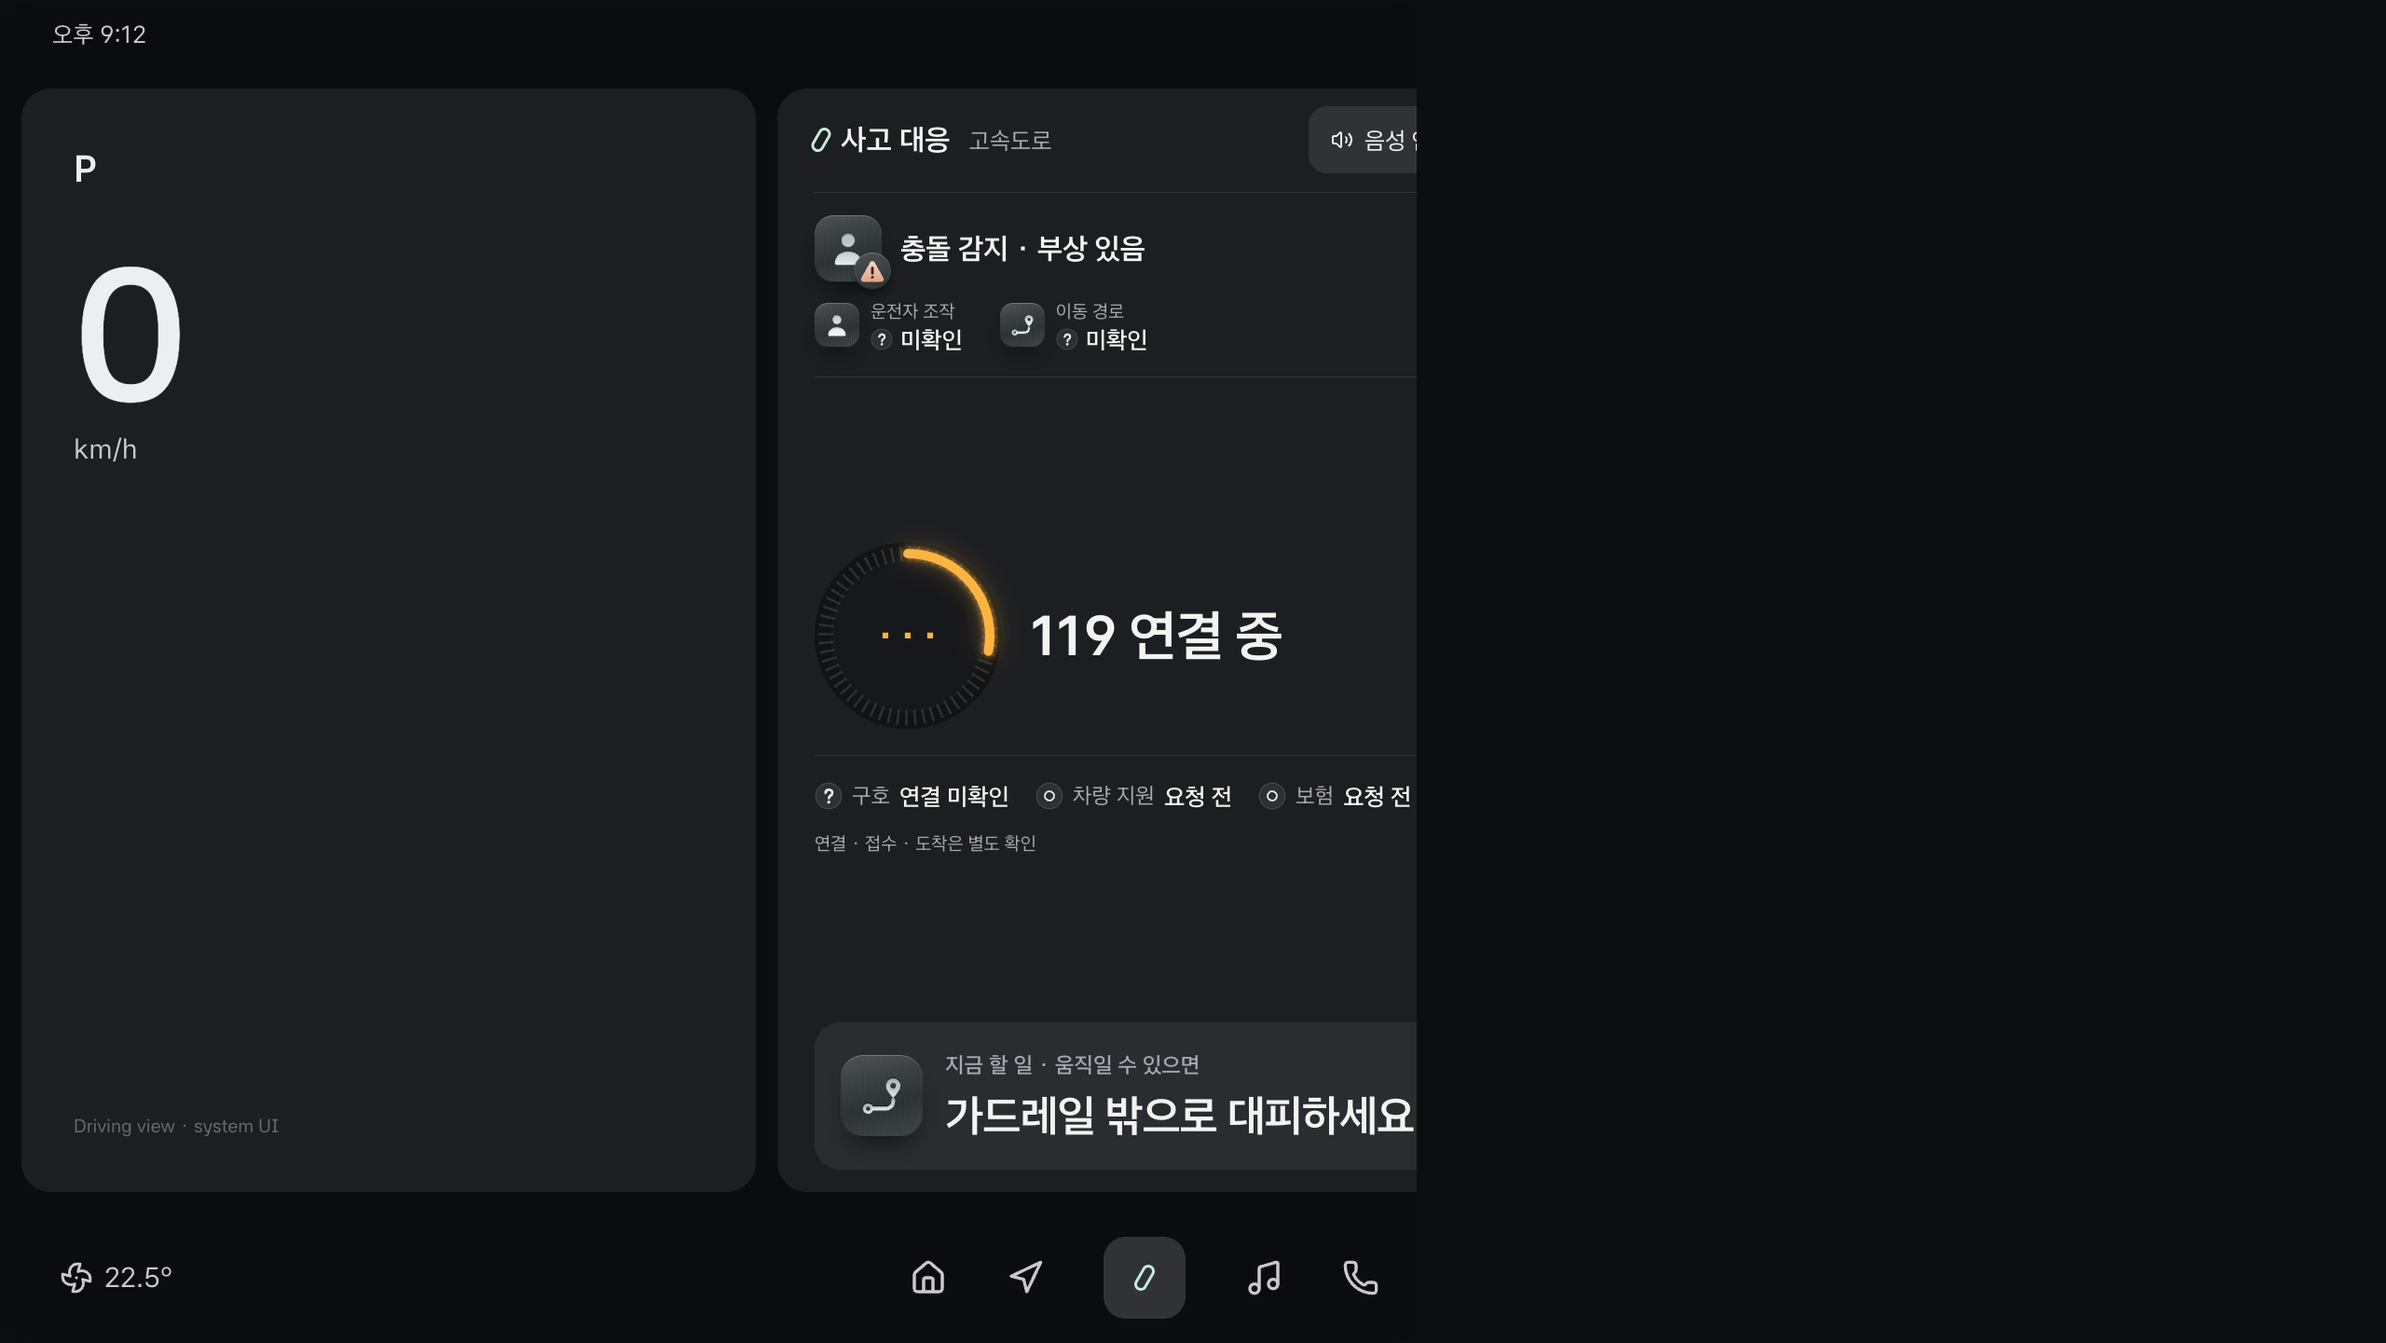
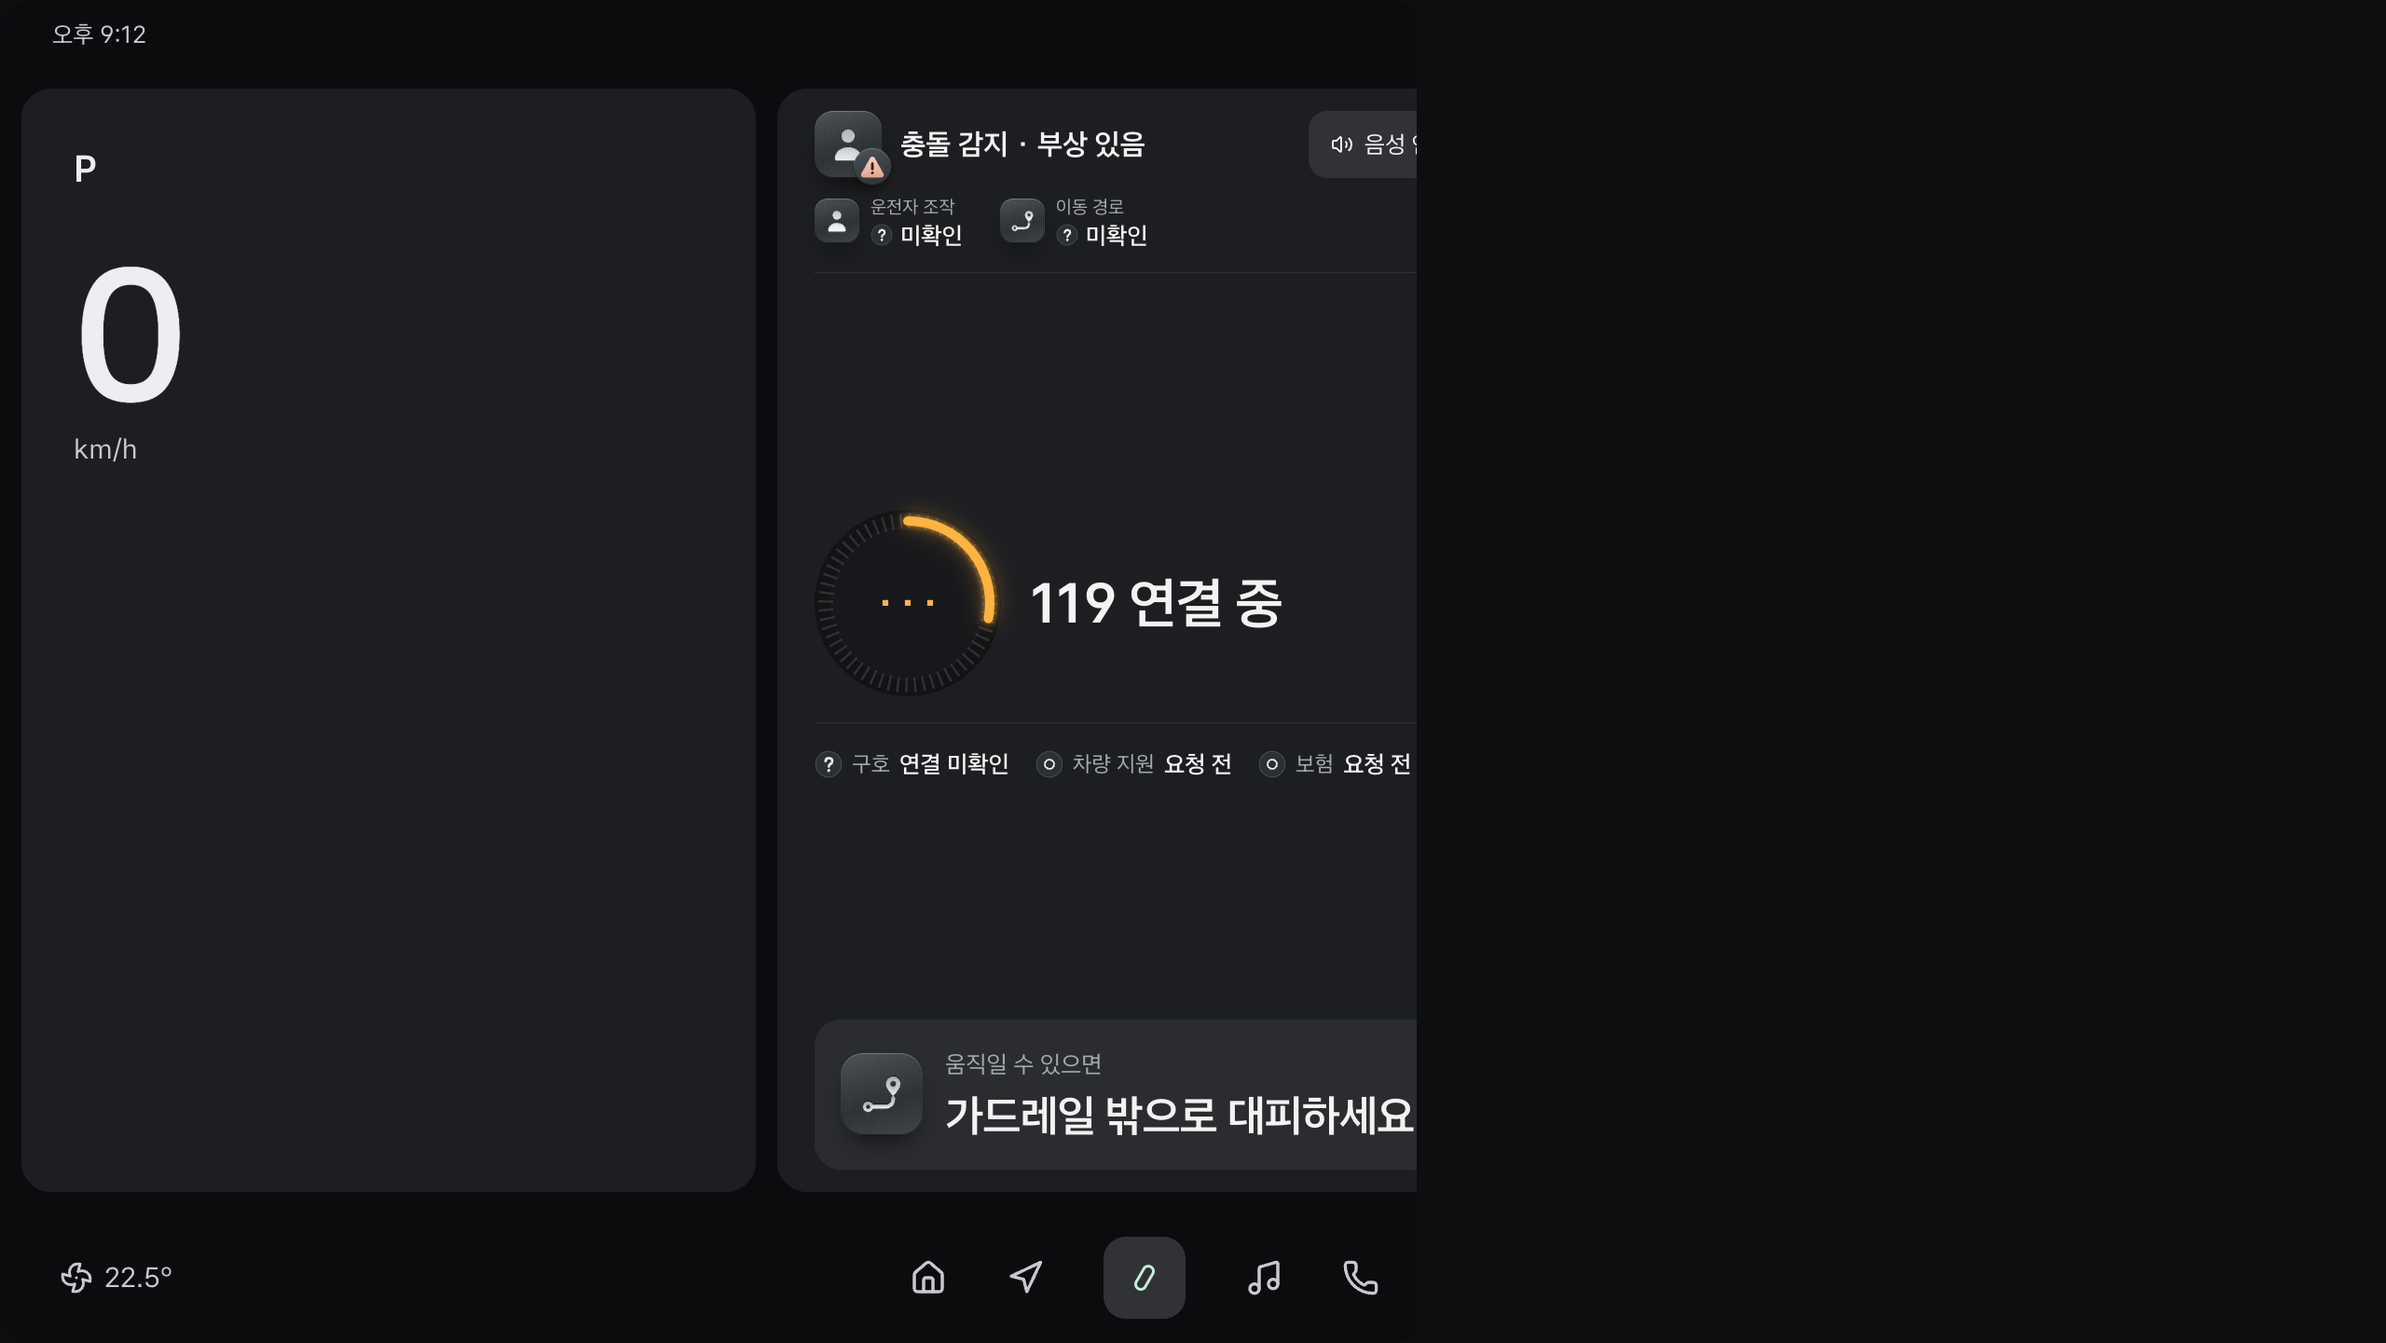
feat(web): remove meta text from the emergency app window
The app name, logo and place tag in the header, the "지금 할 일" lead
on the self card, the "연결 · 접수 · 도착은 별도 확인" footnote and the
captions on the driving view and navigation windows all described the
UI or our design rules instead of telling the driver anything. The
voice button moves to the right end of the detected line, and a self
action condition is shown as a small line above the sentence.

presentation.context_label stays in the data because the Android
preview reads it.

Also make two flaky tests deterministic: the scaled-canvas test now
measures the plate and glyph in the same frame, and the stale timer
test starts with a paused clock so load cannot run the countdown out
before the click.

diff --git a/prototype/web/src/emergency/emergency.css b/prototype/web/src/emergency/emergency.css
@@ -33,10 +33,8 @@
 .pleos-gear { font-size: 40px; font-weight: 700; color: #EDEEF2; }
 .pleos-speed { margin-top: 48px; display: flex; flex-direction: column; font-size: 30px; }
 .pleos-speed strong { font-size: 200px; line-height: 1; font-weight: 600; color: #EDEEF2; }
-.pleos-caption { margin: auto 0 0; font-size: 20px; color: #686A72; }
 .pleos-navigation { left: 1697px; width: 840px; background: #16181B; }
 .pleos-navigation svg { display: block; }
-.pleos-navigation .pleos-caption { position: absolute; left: 40px; bottom: 32px; }
 .pleos-gnb { position: absolute; inset: auto 0 0; height: 140px; display: flex; align-items: center; justify-content: space-between; padding: 0 64px; font-size: 30px; }
 .pleos-gnb > span { display: flex; align-items: center; gap: 12px; }
 .pleos-gnb nav { display: flex; align-items: center; gap: 64px; }
@@ -45,16 +43,12 @@
 
 /* 사고 대응 app 창. 글자는 Pleos type scale(Headline 60·48, Title 40·36·32, Body 30·28·26, Label 24·20)만 쓴다. */
 .emergency-screen { --urgent: #FF4C28; --progress: #FFB340; --pleos-line: #313236; --pleos-subtle: #A4A8AE; position: absolute; left: 834px; top: 94px; width: 840px; height: 1184px; display: flex; flex-direction: column; padding: 0 40px 24px; background: #1D1E21; color: var(--foreground); border-radius: 32px; overflow: hidden; }
-.emergency-app-header { flex: none; height: 112px; display: flex; align-items: center; gap: 20px; border-bottom: 1px solid var(--pleos-line); }
-.emergency-app-name { font-size: 32px; font-weight: 700; display: flex; align-items: center; gap: 14px; }
-.emergency-app-name > span { width: 14px; height: 28px; border: 3px solid var(--primary); border-radius: 8px; transform: rotate(30deg); }
-.emergency-context-label { font-size: 26px; color: var(--pleos-subtle); }
-.emergency-voice-button { margin-left: auto; display: flex; align-items: center; gap: 12px; color: var(--foreground); background: var(--pleos-line); border: 0; border-radius: 20px; min-height: 72px; padding: 0 24px; font-size: 26px; }
+.emergency-voice-button { grid-column: 3; display: flex; align-items: center; gap: 12px; color: var(--foreground); background: var(--pleos-line); border: 0; border-radius: 20px; min-height: 72px; padding: 0 24px; font-size: 26px; }
 .emergency-voice-button:hover { background: #44464E; }
 .emergency-slot { display: flex; flex-direction: column; gap: 20px; padding: 28px 0; }
-/* 칸에는 이름표를 달지 않는다. ① 은 작은 상황 줄, ② 는 가운데 큰 영역, ③ 은 따로 띄운 "지금 할 일" card 다. */
+/* 화면을 설명하는 글(칸 이름표·말머리·app 이름)은 두지 않는다. ① 은 작은 상황 줄, ② 는 가운데 큰 영역, ③ 은 따로 띄운 card 다. */
 .emergency-car { border-top: 1px solid var(--pleos-line); }
-.emergency-detected { display: grid; grid-template-columns: 72px minmax(0, 1fr); align-items: center; gap: 16px 20px; padding: 24px 0; }
+.emergency-detected { display: grid; grid-template-columns: 72px minmax(0, 1fr) auto; align-items: center; gap: 16px 20px; padding: 24px 0; }
 .emergency-facts { grid-column: 1 / -1; }
 .emergency-detected h2 { margin: 0; font-size: 32px; font-weight: 700; line-height: 1.25; letter-spacing: -.01em; }
 .metal-plate { background: var(--metal-plate); box-shadow: inset 0 1px 0 rgba(255,255,255,.24), inset 0 -1px 0 rgba(0,0,0,.55), 0 14px 28px -12px rgba(0,0,0,.75); }
@@ -92,11 +86,10 @@
 .emergency-request { display: flex; align-items: center; gap: 10px; }
 .emergency-request-name { font-size: 24px; color: var(--pleos-subtle); }
 .emergency-request strong { font-size: 26px; font-weight: 600; }
-.emergency-status-boundary { flex-basis: 100%; font-size: 20px; color: var(--pleos-subtle); }
 .emergency-self { flex: none; flex-direction: row; align-items: center; gap: 24px; padding: 28px; border-radius: 28px; background: #2A2C30; }
 .emergency-self-plate { flex: none; display: grid; place-items: center; width: 88px; height: 88px; border-radius: 24px; }
 .emergency-self-copy { display: flex; flex-direction: column; align-items: flex-start; gap: 8px; min-width: 0; }
-.emergency-self-lead { margin: 0; font-size: 24px; font-weight: 600; color: var(--pleos-subtle); }
+.emergency-self-condition { margin: 0; font-size: 26px; color: var(--pleos-subtle); }
 .emergency-self-action { display: flex; align-items: baseline; flex-wrap: wrap; gap: 4px 16px; margin: 0; }
 .emergency-self-action > strong { font-size: 48px; font-weight: 800; line-height: 1.2; letter-spacing: -.02em; }
 .emergency-self-action > span { font-size: 30px; color: var(--pleos-subtle); }

diff --git a/prototype/web/src/emergency/EmergencyStudy.tsx b/prototype/web/src/emergency/EmergencyStudy.tsx
@@ -210,10 +210,10 @@ export function EmergencyStudy() {
         <section className={`emergency-screen${satin ? ' is-satin' : ''}`} data-surface-status={satin ? surfaceStatus : 'flat'} aria-label="시각 중심 사고 대응" inert={paused} style={{ '--metal-plate': metalPlate } as CSSProperties}>
           <GlyphDefs />
           {satin && <SatinSurface intensity={surfaceIntensity} onStatus={setSurfaceStatus} />}
-          <header className="emergency-app-header"><span className="emergency-app-name"><span aria-hidden="true" />사고 대응</span><span className="emergency-context-label">{scenario.presentation.context_label}</span><button onClick={playVoice} className="emergency-voice-button">{voiceState === 'speaking' ? <VolumeX size={24} aria-hidden="true" /> : <Volume2 size={24} aria-hidden="true" />}{voiceState === 'speaking' ? '음성 안내 중지' : '음성 안내 듣기'}</button></header>
           <section className="emergency-slot emergency-detected" data-slot="detected" aria-label="핵심 상황">
             <div className="emergency-symbol metal-plate" aria-hidden="true"><Glyph name={glyphFor.cue(scene.cue.symbol)} depth="deep" size={48} /><span className="emergency-symbol-state"><StatusMark tone={scene.cue.status} size={28} /></span></div>
             <h2 className={`tone-${scene.cue.status}`}>{scenario.presentation.detected} · {scene.cue.label}</h2>
+            <button onClick={playVoice} className="emergency-voice-button">{voiceState === 'speaking' ? <VolumeX size={24} aria-hidden="true" /> : <Volume2 size={24} aria-hidden="true" />}{voiceState === 'speaking' ? '음성 안내 중지' : '음성 안내 듣기'}</button>
             <div className="emergency-facts">{facts.filter(fact => scenario.presentation.visible_facts.includes(fact.id)).map(fact => <div key={fact.id} className={`emergency-fact tone-${fact.status}`} data-fact={fact.id}><span className="emergency-fact-plate metal-plate"><Glyph name={glyphFor.fact(fact.id)} depth="shallow" size={32} /></span><span>{fact.label}</span><strong><StatusMark tone={fact.status} size={24} />{fact.value}</strong></div>)}</div>
           </section>
           <section className="emergency-slot emergency-car" data-slot="car" aria-label="차량이 할 일">
@@ -232,12 +232,12 @@ export function EmergencyStudy() {
             <div className="emergency-requests" aria-label="기관별 요청 상태">{requests.map(request => {
               const status = requestStatuses[request.status]
               return <div key={request.id} className={`emergency-request tone-${status.tone}`} data-request={request.id}><StatusMark tone={status.tone} size={30} /><span className="emergency-request-name">{request.label}</span><strong>{status.label}</strong></div>
-            })}<span className="emergency-status-boundary">연결 · 접수 · 도착은 별도 확인</span></div>
+            })}</div>
           </section>
           <section className="emergency-slot emergency-self" data-slot="self" aria-label="지금 할 일">
             {scene.self_action && <span className="emergency-self-plate metal-plate" aria-hidden="true"><Glyph name={glyphFor.self(scene.self_action.id)} depth="deep" size={56} /></span>}
             <div className="emergency-self-copy">
-              <p className="emergency-self-lead">지금 할 일{scene.self_action?.condition && ` · ${scene.self_action.condition}`}</p>
+              {scene.self_action?.condition && <p className="emergency-self-condition">{scene.self_action.condition}</p>}
               {scene.actions.filter(action => action.slot === 'self').map(action => <button className="emergency-primary-action is-self" key={action.id} onClick={() => goToScene(action.to, 'action')}><Glyph name={glyphFor.action(action.id)} depth="solid" size={36} /><span>{action.label}</span></button>)}
               {scene.self_action && <p className="emergency-self-action"><strong>{scene.self_action.now}</strong>{scene.self_action.next && <span>→ {scene.self_action.next}</span>}</p>}
             </div>

diff --git a/prototype/web/tests/emergency-urgent.spec.ts b/prototype/web/tests/emergency-urgent.spec.ts
@@ -92,12 +92,17 @@ test('only_the_rescue_ring_glows', async ({ page }) => {
   expect(glowing).toEqual([])
 })
 
-test('slots_carry_no_name_tags', async ({ page }) => {
+// 화면을 설명하는 글(칸 이름표·말머리·설계 주석·app 이름·창 설명)은 운전자에게 주는 정보가 아니다.
+const TAGS = ['감지', '차량', '나']
+const META = ['지금 할 일', '사고 대응', '별도 확인', 'system UI', '다른 app']
+test('screen_has_no_meta_labels', async ({ page }) => {
   for (const { scenario, scene } of scenes) {
     await page.goto(`/?study=emergency&scenario=${scenario.id}&scene=${scene.id}`)
     await expect(page.locator('[data-slot="car"]')).toBeVisible()
-    const tags = await page.locator('.emergency-screen').evaluate(root => [...root.querySelectorAll('*')].map(node => node.childNodes.length === 1 ? node.textContent!.trim() : '').filter(text => ['감지', '차량', '나'].includes(text)))
-    expect(tags, `${scenario.id}/${scene.id}`).toEqual([])
+    const found = await page.locator('.pleos-display').evaluate((root, { tags, meta }) => [...root.querySelectorAll('*')]
+      .map(node => [...node.childNodes].filter(child => child.nodeType === Node.TEXT_NODE).map(child => child.textContent!.trim()).join(' ').trim())
+      .filter(text => tags.includes(text) || meta.some(word => text.includes(word))), { tags: TAGS, meta: META })
+    expect(found, `${scenario.id}/${scene.id}`).toEqual([])
   }
 })
 
@@ -107,8 +112,8 @@ test('self_card_says_now_with_the_action_glyph', async ({ page }) => {
     await page.goto(`/?study=emergency&scenario=${scenario.id}&scene=${scene.id}`)
     const card = page.locator('[data-slot="self"]')
     const where = `${scenario.id}/${scene.id}`
-    await expect(card, where).toContainText('지금 할 일')
     await expect(card, where).toContainText(scene.self_action.now)
+    if (scene.self_action.condition) await expect(card, where).toContainText(scene.self_action.condition)
     await expect(card.locator(`[data-glyph="${(book.self as Record<string, string>)[scene.self_action.id]}"]`), where).toHaveCount(1)
   }
 })
@@ -196,7 +201,11 @@ test.describe('rescue countdown', () => {
   })
 
   test('stale_timer_does_not_fire_after_scene_change', async ({ page }) => {
-    const screen = await open(page)
+    // 설치한 clock 은 실제 시간으로도 흐른다. 0.5초 여유는 부하가 걸리면 click 전에 사라지므로 page 를 열기 전에 clock 을 멈춘다.
+    await page.clock.install({ time: 0 })
+    await page.clock.pauseAt(1_000)
+    await page.goto('/?study=emergency&scenario=SC03&scene=initial')
+    const screen = page.getByRole('region', { name: '시각 중심 사고 대응' })
     await page.clock.runFor(9_500)
     await screen.getByRole('button', { name: '지금 연결', exact: true }).click()
     await page.clock.runFor(2_000)

diff --git a/prototype/web/tests/emergency-glyphs.spec.ts b/prototype/web/tests/emergency-glyphs.spec.ts
@@ -45,13 +45,12 @@ test('scaled_canvas_keeps_glyph_inside_plate', async ({ page }) => {
   await page.goto('/?study=emergency&scenario=SC05')
   // 축소 배율은 ResizeObserver 뒤에 정해진다. 배율이 정해지기 전에 재면 box 가 서로 어긋난다.
   await expect.poll(async () => (await page.locator('.emergency-screen').boundingBox())?.width ?? Infinity).toBeLessThanOrEqual(375)
-  const plate = await page.locator('.emergency-symbol').boundingBox()
-  const glyph = await page.locator('.emergency-symbol > [data-glyph]').boundingBox()
-  expect(plate && glyph).toBeTruthy()
-  expect(glyph!.x).toBeGreaterThanOrEqual(plate!.x)
-  expect(glyph!.y).toBeGreaterThanOrEqual(plate!.y)
-  expect(glyph!.x + glyph!.width).toBeLessThanOrEqual(plate!.x + plate!.width)
-  expect(glyph!.y + glyph!.height).toBeLessThanOrEqual(plate!.y + plate!.height)
+  // 두 box 를 따로 재면 그 사이에 배율이 바뀔 수 있다. 같은 frame 에서 잰다.
+  const [plate, glyph] = await page.locator('.emergency-symbol').evaluate(node => [node, node.querySelector(':scope > [data-glyph]')!].map(item => item.getBoundingClientRect().toJSON()))
+  expect(glyph.x).toBeGreaterThanOrEqual(plate.x)
+  expect(glyph.y).toBeGreaterThanOrEqual(plate.y)
+  expect(glyph.x + glyph.width).toBeLessThanOrEqual(plate.x + plate.width)
+  expect(glyph.y + glyph.height).toBeLessThanOrEqual(plate.y + plate.height)
   expect(await page.evaluate(() => document.documentElement.scrollWidth <= innerWidth)).toBe(true)
 })
 

diff --git a/prototype/web/src/emergency/PleosDisplay.tsx b/prototype/web/src/emergency/PleosDisplay.tsx
@@ -11,7 +11,6 @@ export function PleosDisplay({ scale, children }: { scale: number; children: Rea
     <section className="pleos-window pleos-driving" data-pleos="driving-view" aria-hidden="true">
       <span className="pleos-gear">P</span>
       <div className="pleos-speed"><strong>0</strong><span>km/h</span></div>
-      <p className="pleos-caption">Driving view · system UI</p>
     </section>
     {children}
     <section className="pleos-window pleos-navigation" data-pleos="navigation" aria-hidden="true">
@@ -23,7 +22,6 @@ export function PleosDisplay({ scale, children }: { scale: number; children: Rea
         <circle cx="414" cy="900" r="52" fill="rgba(0,130,255,.18)" />
         <circle cx="414" cy="900" r="20" fill="#0082FF" stroke="#fff" strokeWidth="5" />
       </svg>
-      <p className="pleos-caption">내비게이션 · 다른 app</p>
     </section>
     <div className="pleos-gnb" data-pleos="gnb" aria-hidden="true">
       <span><Fan size={36} />22.5°</span>
